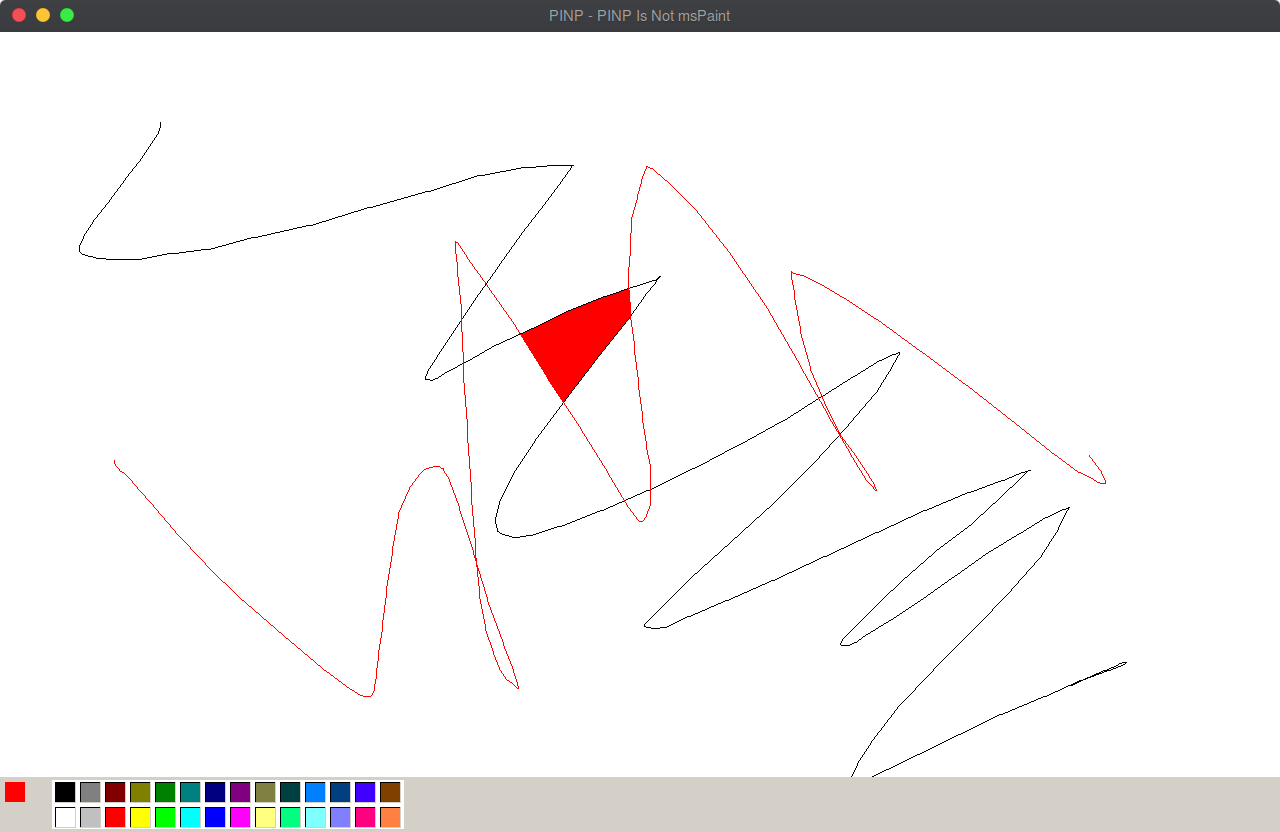
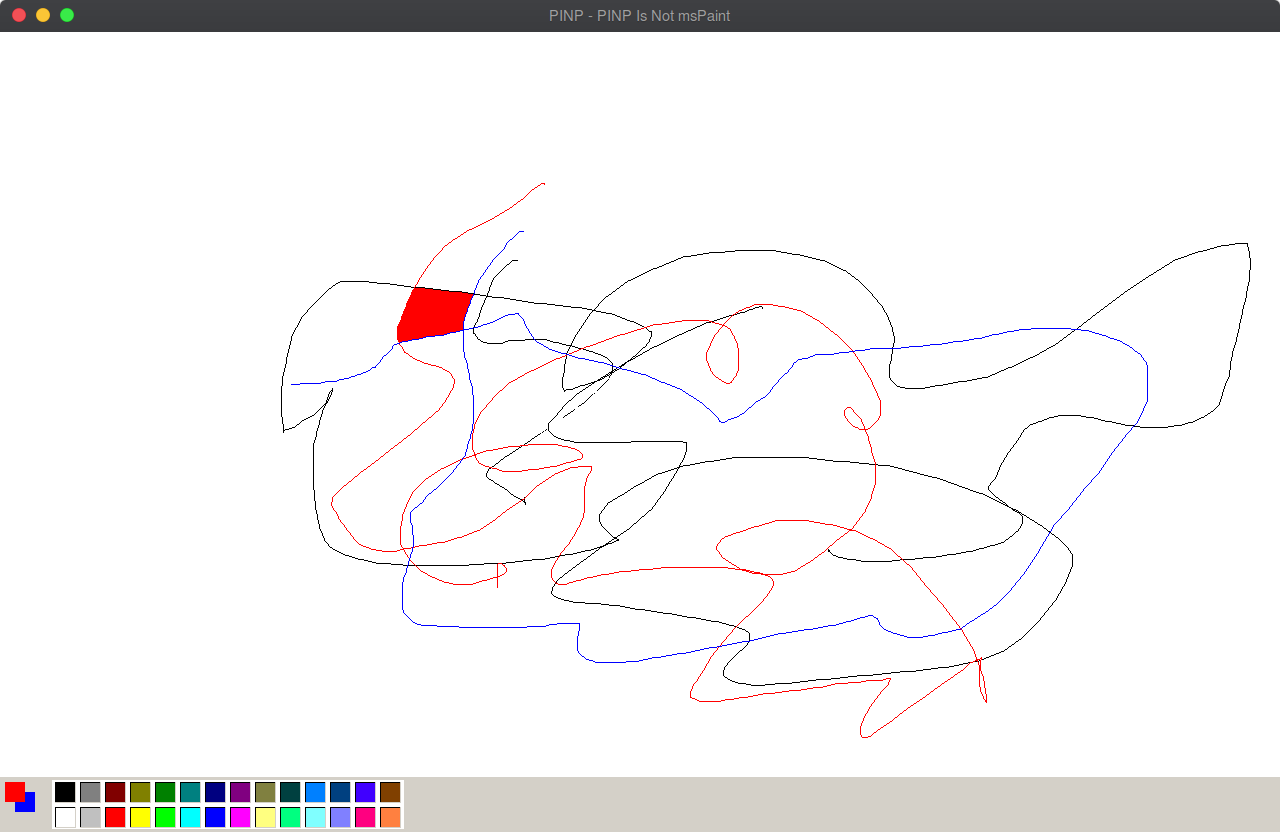
added primary and secondary colors

diff --git a/main.py b/main.py
@@ -1,5 +1,5 @@
 import pygame
-from color_picker import draw_color_picker, get_primary_color, get_secondary_color, set_primary_color
+from color_picker import draw_color_picker, get_primary_color, get_secondary_color, set_primary_color, set_secondary_color
 
 pygame.init()
 
@@ -14,18 +14,24 @@ PENCIL = 0
 tool = PENCIL
 FILL = 1
 
+last_color = None
 
-def pencil_events(event, color):
-    global drawing, last_pos
+def pencil_events(event):
+    global drawing, last_pos, last_color
 
     if event.type == pygame.MOUSEBUTTONDOWN and event.button == 1:
         drawing = True
         last_pos = event.pos
+        last_color = get_primary_color()
+    if event.type == pygame.MOUSEBUTTONDOWN and event.button == 3:
+        drawing = True
+        last_pos = event.pos
+        last_color = get_secondary_color()
     if event.type == pygame.MOUSEBUTTONUP:
         drawing = False
 
     if drawing:
-        pygame.draw.line(gameDisplay, color, last_pos, event.pos, 1)
+        pygame.draw.line(gameDisplay, last_color, last_pos, event.pos, 1)
         last_pos = event.pos
 
 
@@ -372,6 +378,8 @@ while True:
 
             if event.type == pygame.KEYDOWN and event.key == 51:
                 set_primary_color((255,0,0))
+            if event.type == pygame.KEYDOWN and event.key == 52:
+                set_secondary_color((0,0,255))
 
             if event.type == pygame.KEYDOWN and event.key == 49:
                 tool = PENCIL
@@ -391,7 +399,7 @@ while True:
                 del old_surface_saved
 
             if tool == PENCIL:
-                pencil_events(event, get_primary_color())
+                pencil_events(event)
             elif tool == FILL:
                 fill_events(event, get_primary_color())
         except AttributeError:

diff --git a/color_picker.py b/color_picker.py
@@ -43,6 +43,11 @@ def set_primary_color(color):
     global primary_color
     primary_color = color
 
+def set_secondary_color(color):
+    global secondary_color
+    secondary_color = color
+
+
 def draw_color_picker(screen):
 
     screen_height = screen.get_height()
@@ -85,4 +90,5 @@ def draw_color_picker(screen):
         pygame.draw.line(screen, (212,208,200), (start_point[0] + size_block, start_point[1] + size_block), (start_point[0], start_point[1] + size_block))
         pygame.draw.line(screen, (212,208,200), (start_point[0] + size_block, start_point[1] + size_block), (start_point[0] + size_block, start_point[1] ))
     
+    pygame.draw.rect(screen,get_secondary_color(),(5+(size_block//2),screen_height-50 + (size_block//2),size_block,size_block),0)
     pygame.draw.rect(screen,get_primary_color(),(5,screen_height-50,size_block,size_block),0)
